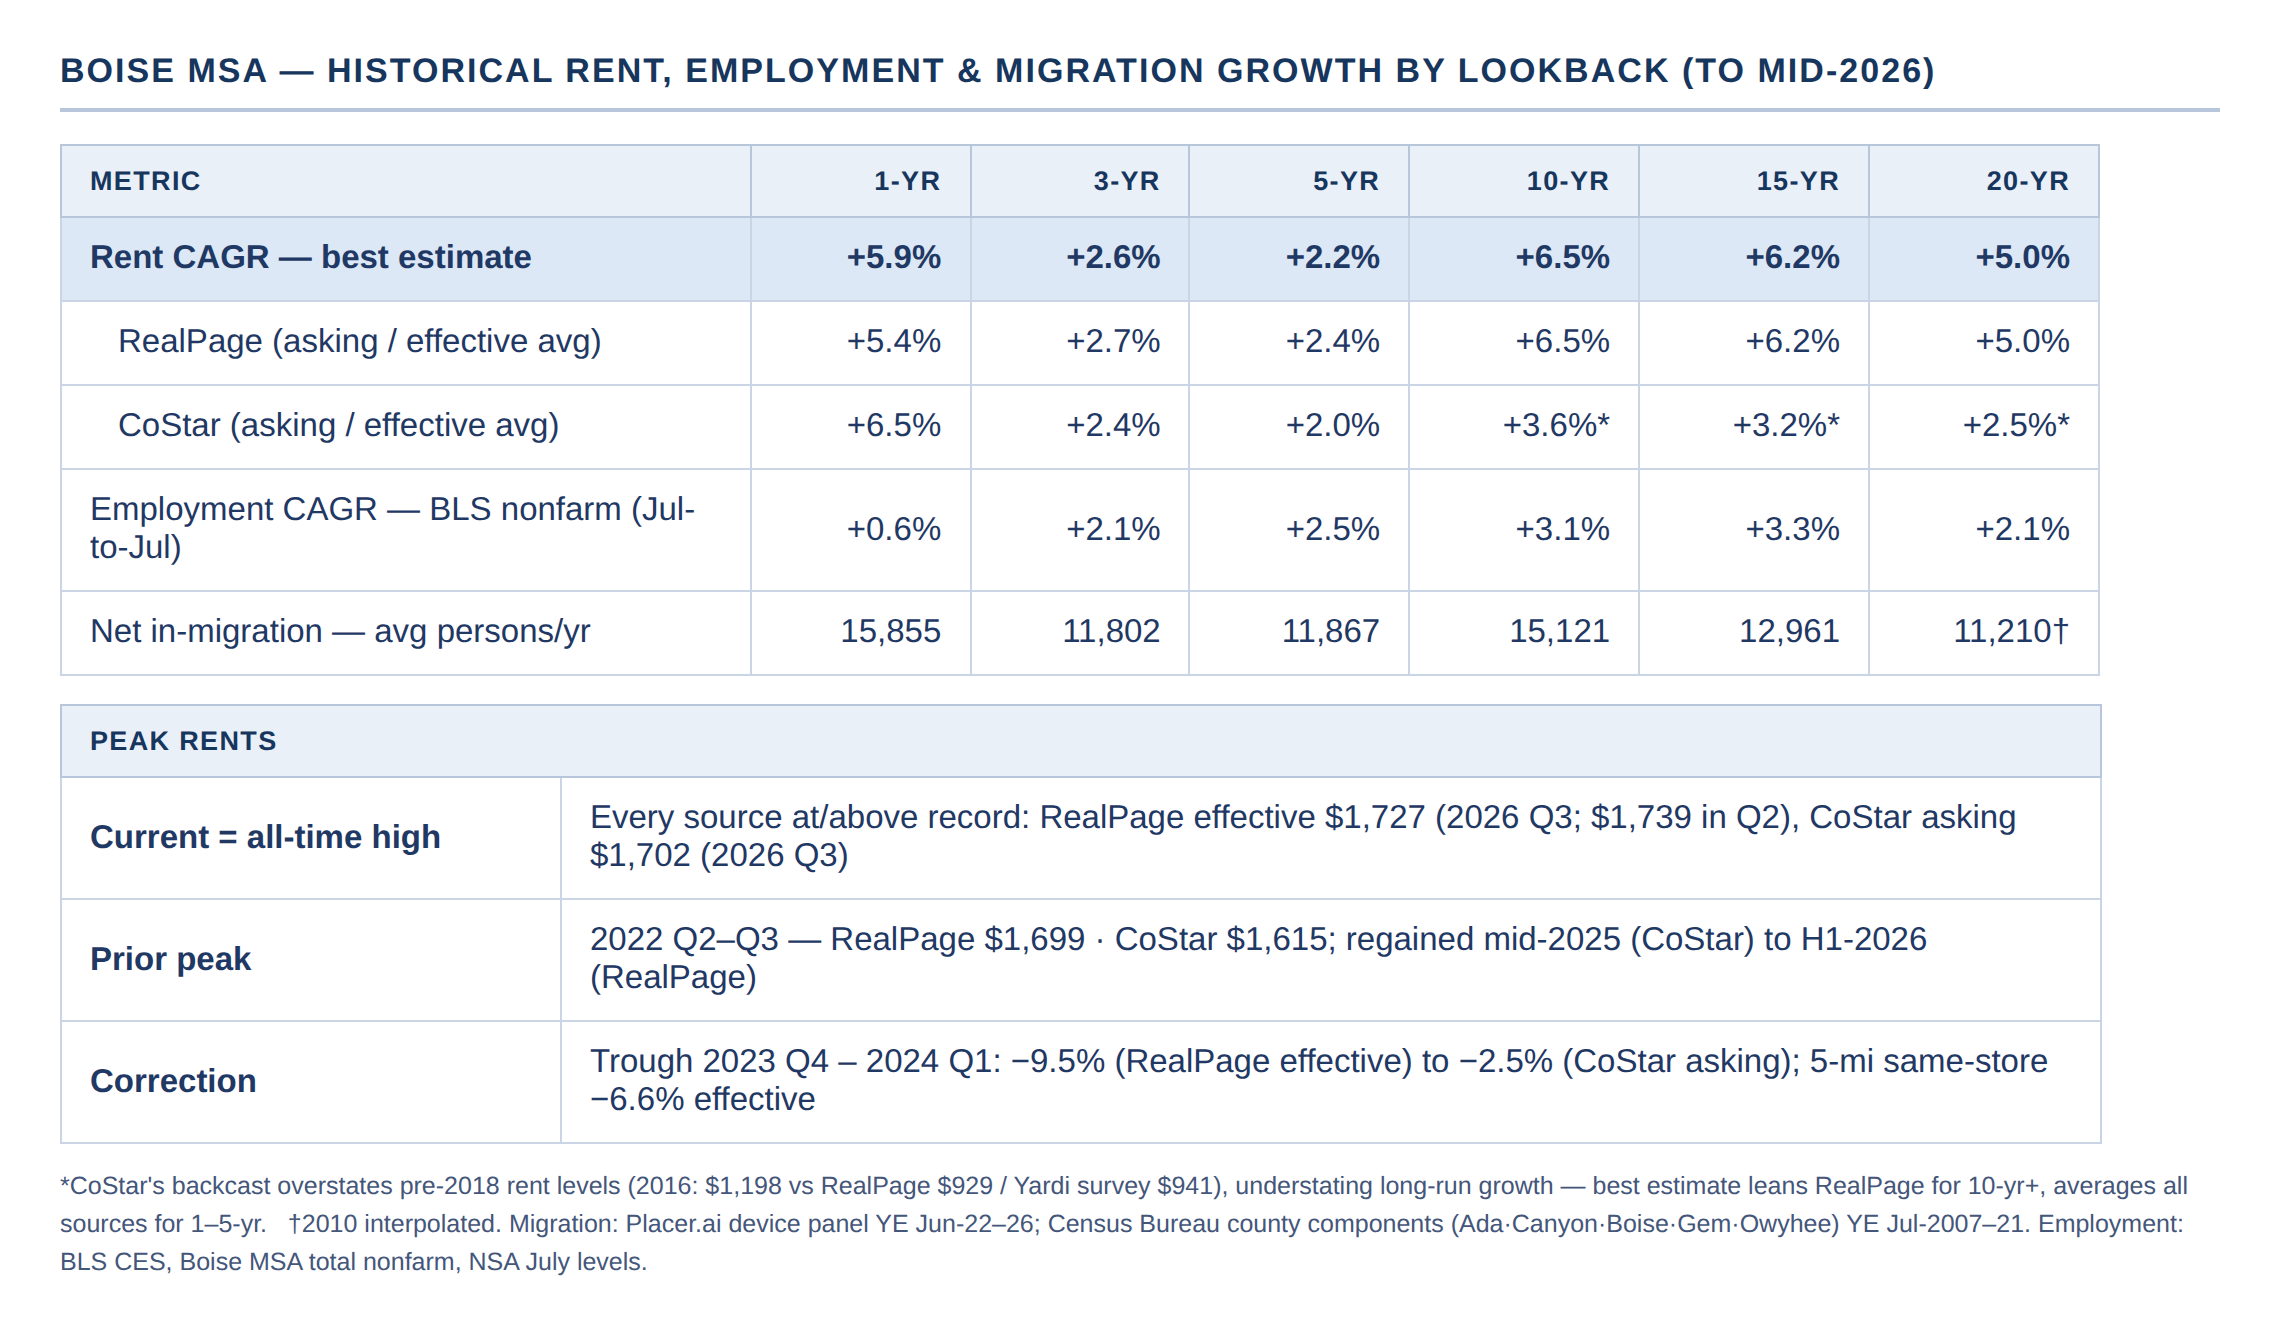
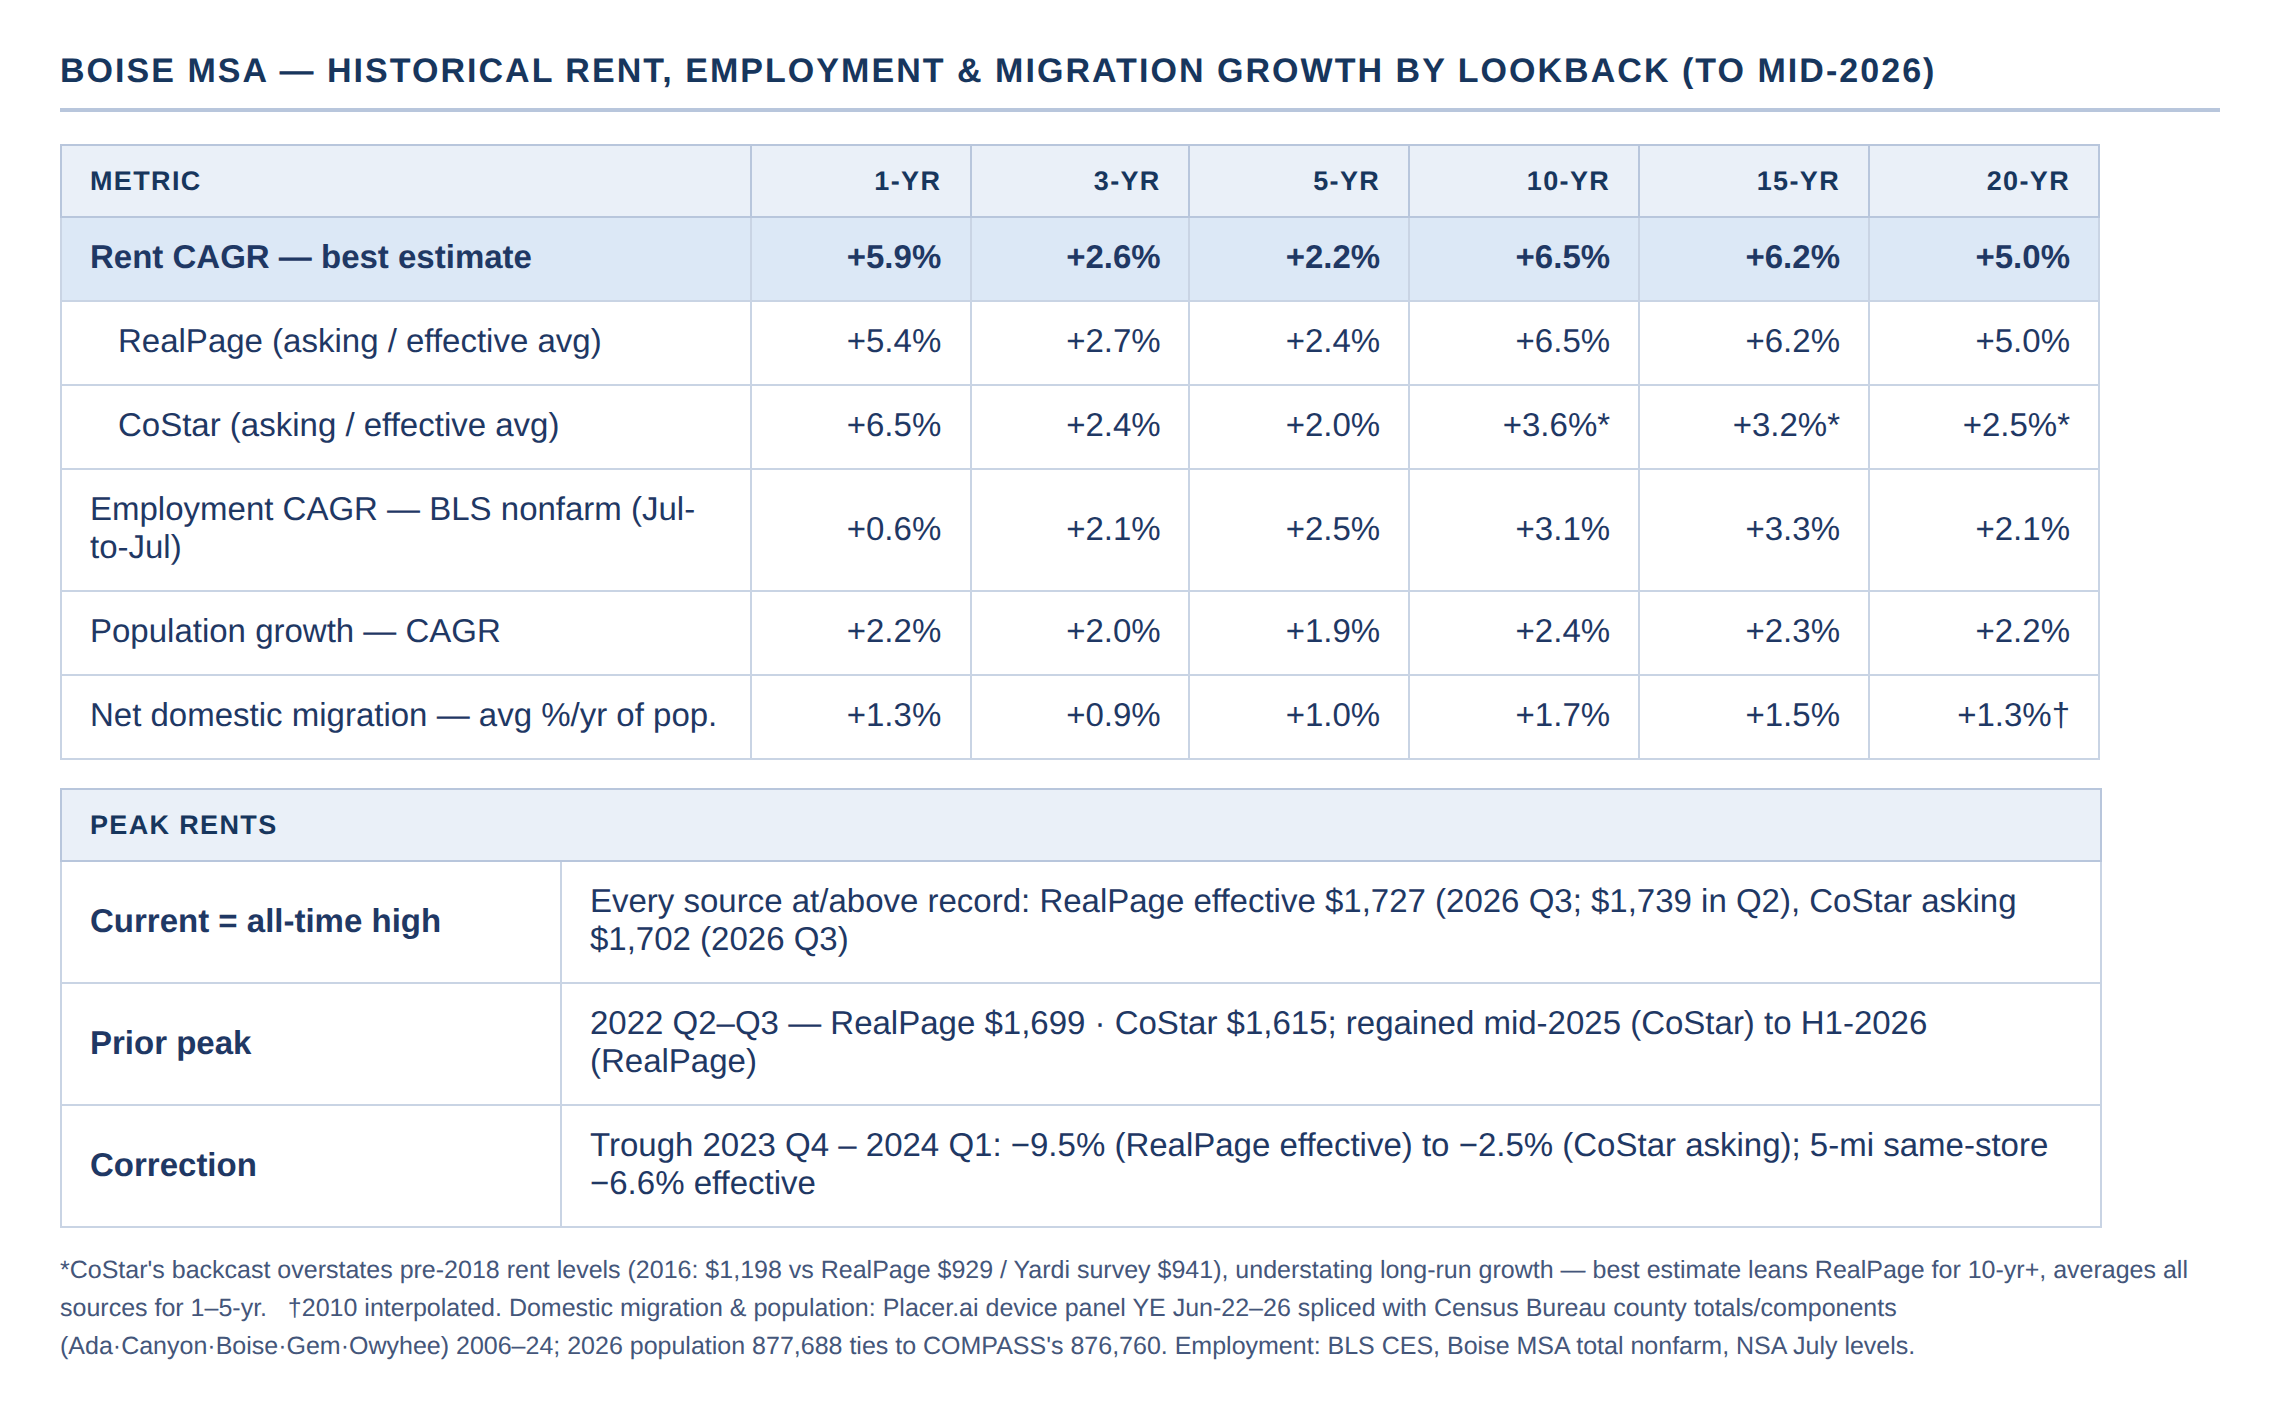
Lookback table: demographic rows as percentages (pop CAGR + domestic mig % of pop)
Claude-Session: https://claude.ai/code/session_01Hx2GcWgZutgtumZeKtRbgD

diff --git a/SeasonsMeridian/analysis/strengths-considerations/exhibits/exec_exhibits.html b/SeasonsMeridian/analysis/strengths-considerations/exhibits/exec_exhibits.html
@@ -110,7 +110,8 @@ document.getElementById('bars').innerHTML=s;
       <tr><td style="padding-left:28px">RealPage (asking / effective avg)</td><td class="num">+5.4%</td><td class="num">+2.7%</td><td class="num">+2.4%</td><td class="num">+6.5%</td><td class="num">+6.2%</td><td class="num">+5.0%</td></tr>
       <tr><td style="padding-left:28px">CoStar (asking / effective avg)</td><td class="num">+6.5%</td><td class="num">+2.4%</td><td class="num">+2.0%</td><td class="num">+3.6%*</td><td class="num">+3.2%*</td><td class="num">+2.5%*</td></tr>
       <tr><td>Employment CAGR — BLS nonfarm (Jul-to-Jul)</td><td class="num">+0.6%</td><td class="num">+2.1%</td><td class="num">+2.5%</td><td class="num">+3.1%</td><td class="num">+3.3%</td><td class="num">+2.1%</td></tr>
-      <tr><td>Net in-migration — avg persons/yr</td><td class="num">15,855</td><td class="num">11,802</td><td class="num">11,867</td><td class="num">15,121</td><td class="num">12,961</td><td class="num">11,210&#8224;</td></tr>
+      <tr><td>Population growth — CAGR</td><td class="num">+2.2%</td><td class="num">+2.0%</td><td class="num">+1.9%</td><td class="num">+2.4%</td><td class="num">+2.3%</td><td class="num">+2.2%</td></tr>
+      <tr><td>Net domestic migration — avg %/yr of pop.</td><td class="num">+1.3%</td><td class="num">+0.9%</td><td class="num">+1.0%</td><td class="num">+1.7%</td><td class="num">+1.5%</td><td class="num">+1.3%&#8224;</td></tr>
     </tbody>
   </table>
   <table style="width:1020px; margin-top:14px">
@@ -124,7 +125,7 @@ document.getElementById('bars').innerHTML=s;
   </table>
   <div style="font-size:12.5px; color:#44567A; margin-top:12px; line-height:1.5">
     *CoStar's backcast overstates pre-2018 rent levels (2016: $1,198 vs RealPage $929 / Yardi survey $941), understating long-run growth — best estimate leans RealPage for 10-yr+, averages all sources for 1–5-yr.&nbsp;&nbsp;
-    &#8224;2010 interpolated. Migration: Placer.ai device panel YE Jun-22–26; Census Bureau county components (Ada·Canyon·Boise·Gem·Owyhee) YE Jul-2007–21. Employment: BLS CES, Boise MSA total nonfarm, NSA July levels.
+    &#8224;2010 interpolated. Domestic migration &amp; population: Placer.ai device panel YE Jun-22–26 spliced with Census Bureau county totals/components (Ada·Canyon·Boise·Gem·Owyhee) 2006–24; 2026 population 877,688 ties to COMPASS's 876,760. Employment: BLS CES, Boise MSA total nonfarm, NSA July levels.
   </div>
 </div>
 
